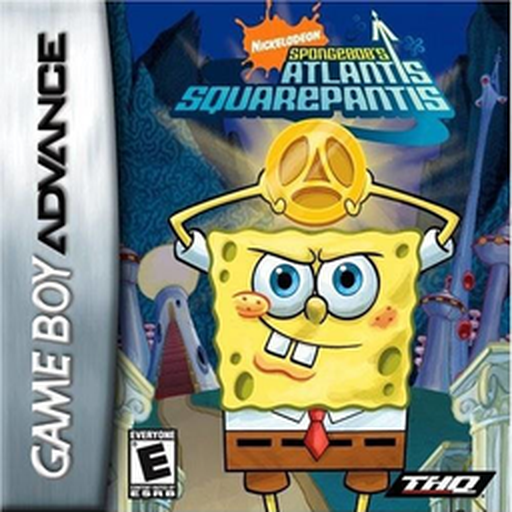
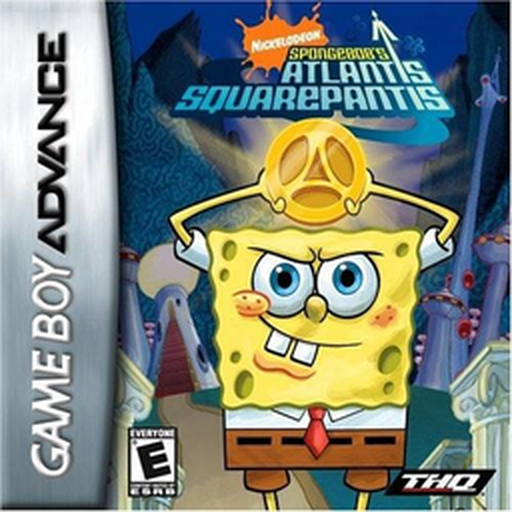
Add square-cropped GBA covers

diff --git a/GBA_Square/README.md b/GBA_Square/README.md
@@ -2,34 +2,43 @@
 
 本目录图片均为 512 × 512 PNG，文件名与 ROM 对应。
 
-有确切 1:1 原版封面可用时，方形版本优先采用该原版封面；若没有合适方图，则从 GBA/ 中原图按视觉细节与中心位置选取方形区域。原始比例封面始终保留在 GBA/。
+## 标记说明
 
-## 本次生成记录
+- ✅ 原版方图，未裁切：使用对应游戏的原版 1:1 封面，仅统一输出尺寸。
+- ✅ 原版近方图，未裁切：原图近似 1:1，只轻微统一比例，没有裁切画面。
+- ✂ 从原图裁切：没有找到合适的方形原版封面，从 GBA/ 原图中选择方形区域。
 
-- 人型电脑天使心GBA - 只属于我的人[PGCG](简)(JP)(64Mb): square crop from GBA/人型电脑天使心GBA - 只属于我的人[PGCG](简)(JP)(64Mb).png
-- 人鱼恋曲 - Pichi Pichi Pitch[千岛&叶子](简)(JP)(136.33Mb): square crop from GBA/人鱼恋曲 - Pichi Pichi Pitch[千岛&叶子](简)(JP)(136.33Mb).png
-- 侠盗猎车手 - 前进[Beq & LCPD](Beta) (v20160720)[简](JP)(256Mb): square crop from GBA/侠盗猎车手 - 前进[Beq & LCPD](Beta) (v20160720)[简](JP)(256Mb).png
-- 侦探学园Q - 挑战究极诡计![CGP](简)(JP)(128Mb): square crop from GBA/侦探学园Q - 挑战究极诡计![CGP](简)(JP)(128Mb).png
-- 侦探神宫寺三郎 - 白影的少女[CGP](简)(JP)(65.56Mb): square crop from GBA/侦探神宫寺三郎 - 白影的少女[CGP](简)(JP)(65.56Mb).png
-- 公主同盟[狼狼小酷+流星落月](v20100811+NO.56修复)(简)(JP)(256Mb): square original artwork Yggdra Union - We'll Never Fight Alone (USA).png
-- 哈利波特 - 消失的密室[施珂昱](简)(JP)(64Mb): square crop from GBA/哈利波特 - 消失的密室[施珂昱](简)(JP)(64Mb).png
-- 哈利波特 - 阿兹卡班的逃犯[施珂昱](简)(JP)(128Mb): square crop from GBA/哈利波特 - 阿兹卡班的逃犯[施珂昱](简)(JP)(128Mb).png
-- 哈利波特 - 魔法石[shikeyu](v0.1)(简)(64Mb): square crop from GBA/哈利波特 - 魔法石[shikeyu](v0.1)(简)(64Mb).png
-- 塞尔达传说 - 缩小帽[天使汉化组](日汉最终版v2005SP4)(简)(JP)(128Mb): square original artwork Legend of Zelda, The - The Minish Cap (USA).png
-- 塞尔达传说 - 过去的林克&四支剑[漫游](简)(US)(64Mb): square crop from GBA/塞尔达传说 - 过去的林克&四支剑[漫游](简)(US)(64Mb).png
-- 妹妹公主 - RePure[PGCG](繁)(JP)(64Mb): square crop from GBA/妹妹公主 - RePure[PGCG](繁)(JP)(64Mb).png
-- 拿破仑(12.24最终版)[Advance-002](简)(JP)(72Mb): square crop from GBA/拿破仑(12.24最终版)[Advance-002](简)(JP)(72Mb).png
-- 星之卡比 - 梦之泉[伤雪&Sody](简)(JP)(64Mb): square crop from GBA/星之卡比 - 梦之泉[伤雪&Sody](简)(JP)(64Mb).png
-- 星之卡比 - 镜之大迷宫[CGP](简)(JP)(128Mb): square original artwork Kirby _ The Amazing Mirror (USA).png
-- 海绵宝宝 亚特兰蒂斯[3爻3](简)(45Mb): square crop from GBA/海绵宝宝 亚特兰蒂斯[3爻3](简)(45Mb).png
-- 约束之地 - 利维艾拉[PromisedLand](v1.05)[简](JP)(256Mb): square original artwork Riviera - The Promised Land (USA).png
-- 纯情房东俏房客Advance - 祝福之钟声[CGP&PGCG](简)(JP)(70.01Mb): square crop from GBA/纯情房东俏房客Advance - 祝福之钟声[CGP&PGCG](简)(JP)(70.01Mb).png
-- 节奏天国[漫游](简)(JP)(128Mb): square crop from GBA/节奏天国[漫游](简)(JP)(128Mb).png
-- 蜘蛛侠 - 纽约之战[Advance-005](简)(JP)(130.44Mb): square crop from GBA/蜘蛛侠 - 纽约之战[Advance-005](简)(JP)(130.44Mb).png
-- 逆转裁判2[CGP](简)(JP)(77.39Mb): square crop from GBA/逆转裁判2[CGP](简)(JP)(77.39Mb).png
-- 逆转裁判3[逆转Ace](简)(JP)(69.64Mb): square crop from GBA/逆转裁判3[逆转Ace](简)(JP)(69.64Mb).png
-- 逆转裁判[Jpgmfan&逆转Ace](简)(JP)(66.41Mb): square crop from GBA/逆转裁判[Jpgmfan&逆转Ace](简)(JP)(66.41Mb).png
-- 阿滋漫画大王Advance[PGCG](简)(JP)(64Mb): square crop from GBA/阿滋漫画大王Advance[PGCG](简)(JP)(64Mb).png
-- 魔卡少女樱 小樱牌的迷你游戏[卧看微尘](v1.0)(简)(64Mb): square crop from GBA/魔卡少女樱 小樱牌的迷你游戏[卧看微尘](v1.0)(简)(64Mb).png
+**统计：9 张使用原版方图/近方图（未裁切）；16 张由原图裁切。**
 
-来源库：Libretro Nintendo - Game Boy Advance Named Boxarts。少数方形原版图是同一游戏的其他地区版本；GBA/ 原图未修改。
+## ✅ 原版方图 / 近方图：未裁切
+
+- **公主同盟[狼狼小酷+流星落月](v20100811+NO.56修复)(简)(JP)(256Mb).png** — ✅ 原版方图，未裁切（只统一输出尺寸）。源图：Yggdra Union - We'll Never Fight Alone (USA).png
+- **哈利波特 - 阿兹卡班的逃犯[施珂昱](简)(JP)(128Mb).png** — ✅ 原版方图，未裁切（只统一输出尺寸）。源图：Harry Potter to Azkaban no Shuujin (Japan).png
+- **哈利波特 - 魔法石[shikeyu](v0.1)(简)(64Mb).png** — ✅ 原版方图，未裁切（只统一输出尺寸）。源图：Harry Potter to Kenja no Ishi (Japan).png
+- **塞尔达传说 - 缩小帽[天使汉化组](日汉最终版v2005SP4)(简)(JP)(128Mb).png** — ✅ 原版方图，未裁切（只统一输出尺寸）。源图：Legend of Zelda, The - The Minish Cap (USA).png
+- **塞尔达传说 - 过去的林克&四支剑[漫游](简)(US)(64Mb).png** — ✅ 原版方图，未裁切（只统一输出尺寸）。源图：Legend of Zelda, The - A Link to the Past _ Four Swords (USA).png
+- **星之卡比 - 梦之泉[伤雪&Sody](简)(JP)(64Mb).png** — ✅ 原版方图，未裁切（只统一输出尺寸）。源图：Kirby - Nightmare in Dream Land (USA).png
+- **星之卡比 - 镜之大迷宫[CGP](简)(JP)(128Mb).png** — ✅ 原版方图，未裁切（只统一输出尺寸）。源图：Kirby _ The Amazing Mirror (USA).png
+- **海绵宝宝 亚特兰蒂斯[3爻3](简)(45Mb).png** — ✅ 原版近方图，未裁切（原图 256×257，仅轻微统一比例）。源图：SpongeBob's Atlantis SquarePantis (USA).png
+- **约束之地 - 利维艾拉[PromisedLand](v1.05)[简](JP)(256Mb).png** — ✅ 原版方图，未裁切（只统一输出尺寸）。源图：Riviera - The Promised Land (USA).png
+
+## ✂ 从原始封面裁切
+
+- **人型电脑天使心GBA - 只属于我的人[PGCG](简)(JP)(64Mb).png** — 从 GBA/人型电脑天使心GBA - 只属于我的人[PGCG](简)(JP)(64Mb).png 裁切成正方形
+- **人鱼恋曲 - Pichi Pichi Pitch[千岛&叶子](简)(JP)(136.33Mb).png** — 从 GBA/人鱼恋曲 - Pichi Pichi Pitch[千岛&叶子](简)(JP)(136.33Mb).png 裁切成正方形
+- **侠盗猎车手 - 前进[Beq & LCPD](Beta) (v20160720)[简](JP)(256Mb).png** — 从 GBA/侠盗猎车手 - 前进[Beq & LCPD](Beta) (v20160720)[简](JP)(256Mb).png 裁切成正方形
+- **侦探学园Q - 挑战究极诡计![CGP](简)(JP)(128Mb).png** — 从 GBA/侦探学园Q - 挑战究极诡计![CGP](简)(JP)(128Mb).png 裁切成正方形
+- **侦探神宫寺三郎 - 白影的少女[CGP](简)(JP)(65.56Mb).png** — 从 GBA/侦探神宫寺三郎 - 白影的少女[CGP](简)(JP)(65.56Mb).png 裁切成正方形
+- **哈利波特 - 消失的密室[施珂昱](简)(JP)(64Mb).png** — 从 GBA/哈利波特 - 消失的密室[施珂昱](简)(JP)(64Mb).png 裁切成正方形
+- **妹妹公主 - RePure[PGCG](繁)(JP)(64Mb).png** — 从 GBA/妹妹公主 - RePure[PGCG](繁)(JP)(64Mb).png 裁切成正方形
+- **拿破仑(12.24最终版)[Advance-002](简)(JP)(72Mb).png** — 从 GBA/拿破仑(12.24最终版)[Advance-002](简)(JP)(72Mb).png 裁切成正方形
+- **纯情房东俏房客Advance - 祝福之钟声[CGP&PGCG](简)(JP)(70.01Mb).png** — 从 GBA/纯情房东俏房客Advance - 祝福之钟声[CGP&PGCG](简)(JP)(70.01Mb).png 裁切成正方形
+- **节奏天国[漫游](简)(JP)(128Mb).png** — 从 GBA/节奏天国[漫游](简)(JP)(128Mb).png 裁切成正方形
+- **蜘蛛侠 - 纽约之战[Advance-005](简)(JP)(130.44Mb).png** — 从 GBA/蜘蛛侠 - 纽约之战[Advance-005](简)(JP)(130.44Mb).png 裁切成正方形
+- **逆转裁判2[CGP](简)(JP)(77.39Mb).png** — 从 GBA/逆转裁判2[CGP](简)(JP)(77.39Mb).png 裁切成正方形
+- **逆转裁判3[逆转Ace](简)(JP)(69.64Mb).png** — 从 GBA/逆转裁判3[逆转Ace](简)(JP)(69.64Mb).png 裁切成正方形
+- **逆转裁判[Jpgmfan&逆转Ace](简)(JP)(66.41Mb).png** — 从 GBA/逆转裁判[Jpgmfan&逆转Ace](简)(JP)(66.41Mb).png 裁切成正方形
+- **阿滋漫画大王Advance[PGCG](简)(JP)(64Mb).png** — 从 GBA/阿滋漫画大王Advance[PGCG](简)(JP)(64Mb).png 裁切成正方形
+- **魔卡少女樱 小樱牌的迷你游戏[卧看微尘](v1.0)(简)(64Mb).png** — 从 GBA/魔卡少女樱 小樱牌的迷你游戏[卧看微尘](v1.0)(简)(64Mb).png 裁切成正方形
+
+来源库：[Libretro Nintendo - Game Boy Advance Named Boxarts](https://github.com/libretro-thumbnails/Nintendo_-_Game_Boy_Advance/tree/master/Named_Boxarts)。少数未裁切方图使用同一游戏的其他地区原版封面；地区可能和本地汉化 ROM 不同。原始比例图片始终保留在 GBA/。

diff --git a/GBA_Square/原版方图未裁切名单.md b/GBA_Square/原版方图未裁切名单.md
@@ -1,0 +1,15 @@
+# ✅ 原版方图未裁切名单
+
+下列方形封面直接使用对应游戏的原版方形封面，没有裁切画面。输出统一调整到 512 × 512，仅作尺寸归一化。
+
+- ✅ **公主同盟[狼狼小酷+流星落月](v20100811+NO.56修复)(简)(JP)(256Mb).png** — 原版方图，未裁切。源图：Yggdra Union - We'll Never Fight Alone (USA).png
+- ✅ **哈利波特 - 阿兹卡班的逃犯[施珂昱](简)(JP)(128Mb).png** — 原版方图，未裁切。源图：Harry Potter to Azkaban no Shuujin (Japan).png
+- ✅ **哈利波特 - 魔法石[shikeyu](v0.1)(简)(64Mb).png** — 原版方图，未裁切。源图：Harry Potter to Kenja no Ishi (Japan).png
+- ✅ **塞尔达传说 - 缩小帽[天使汉化组](日汉最终版v2005SP4)(简)(JP)(128Mb).png** — 原版方图，未裁切。源图：Legend of Zelda, The - The Minish Cap (USA).png
+- ✅ **塞尔达传说 - 过去的林克&四支剑[漫游](简)(US)(64Mb).png** — 原版方图，未裁切。源图：Legend of Zelda, The - A Link to the Past _ Four Swords (USA).png
+- ✅ **星之卡比 - 梦之泉[伤雪&Sody](简)(JP)(64Mb).png** — 原版方图，未裁切。源图：Kirby - Nightmare in Dream Land (USA).png
+- ✅ **星之卡比 - 镜之大迷宫[CGP](简)(JP)(128Mb).png** — 原版方图，未裁切。源图：Kirby _ The Amazing Mirror (USA).png
+- ✅ **海绵宝宝 亚特兰蒂斯[3爻3](简)(45Mb).png** — 原版近方图，未裁切，仅轻微统一比例。源图：SpongeBob's Atlantis SquarePantis (USA).png
+- ✅ **约束之地 - 利维艾拉[PromisedLand](v1.05)[简](JP)(256Mb).png** — 原版方图，未裁切。源图：Riviera - The Promised Land (USA).png
+
+**合计：9 张。** 其他 16 张来自原始比例封面的方形裁切，完整分类请查看 [README.md](README.md)。
